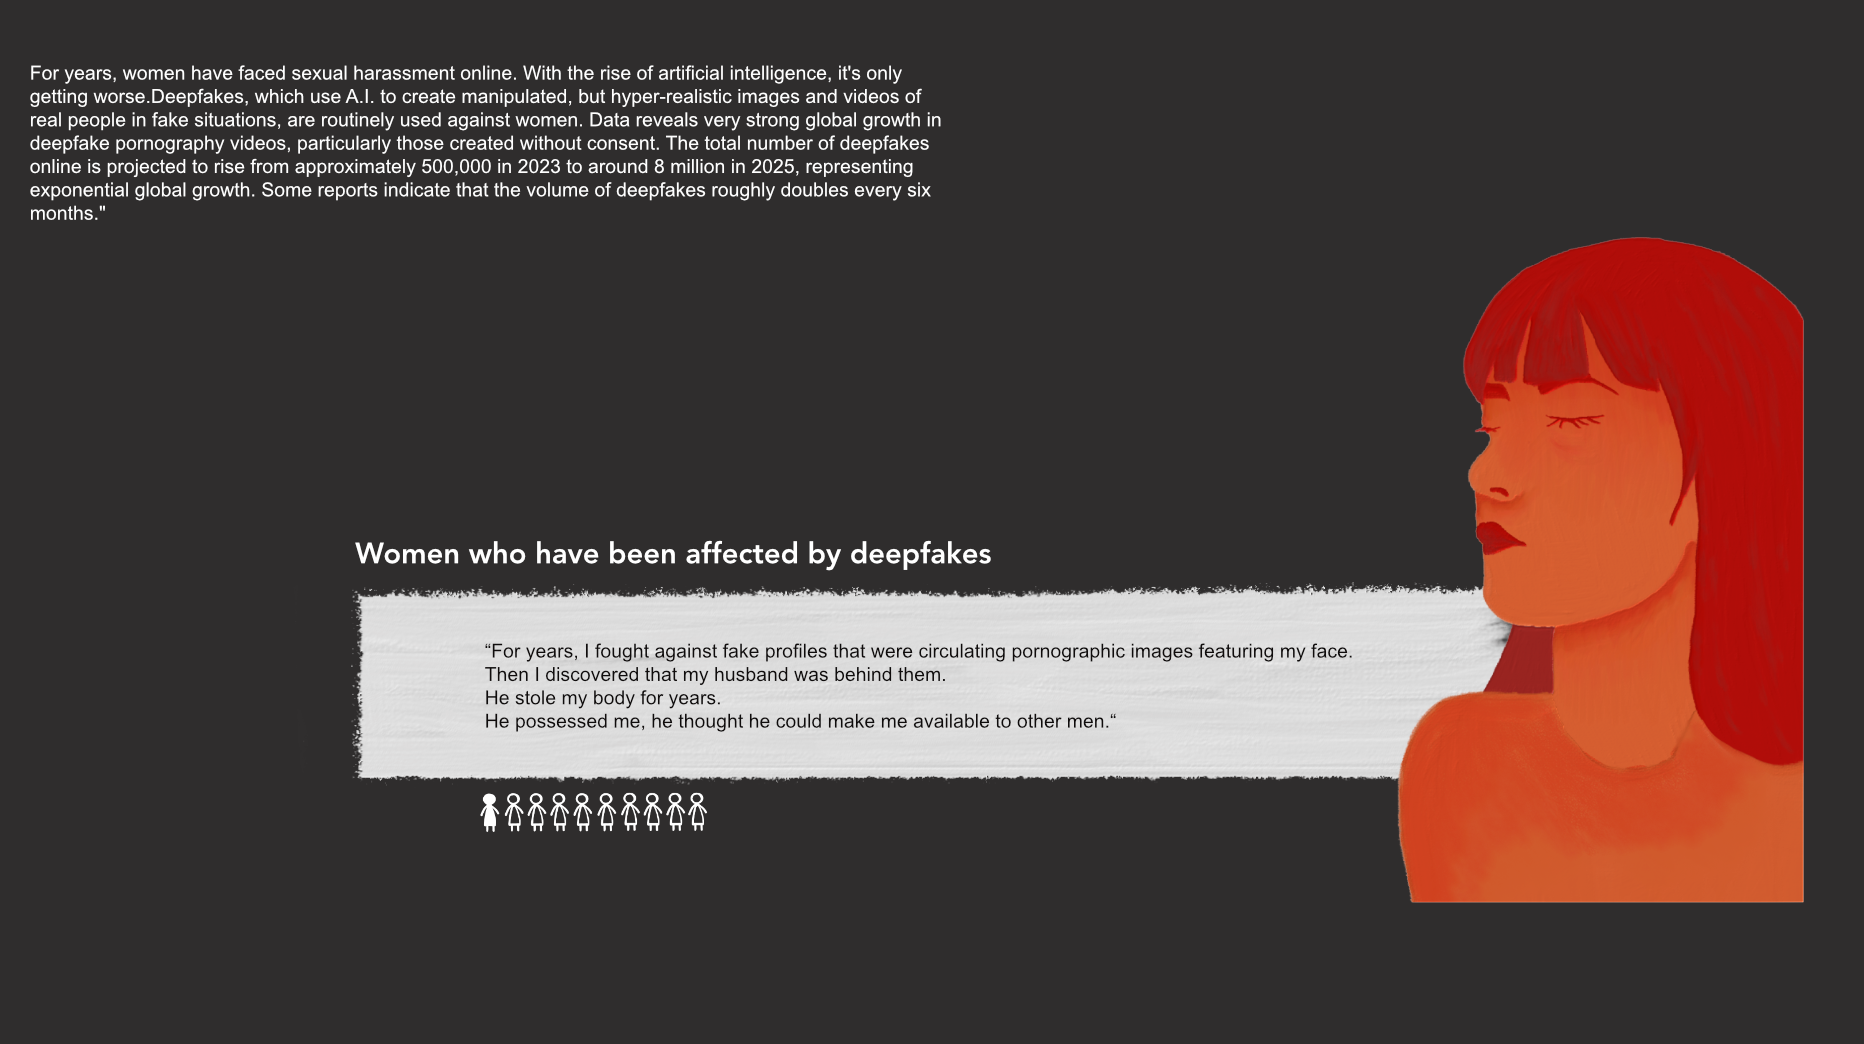
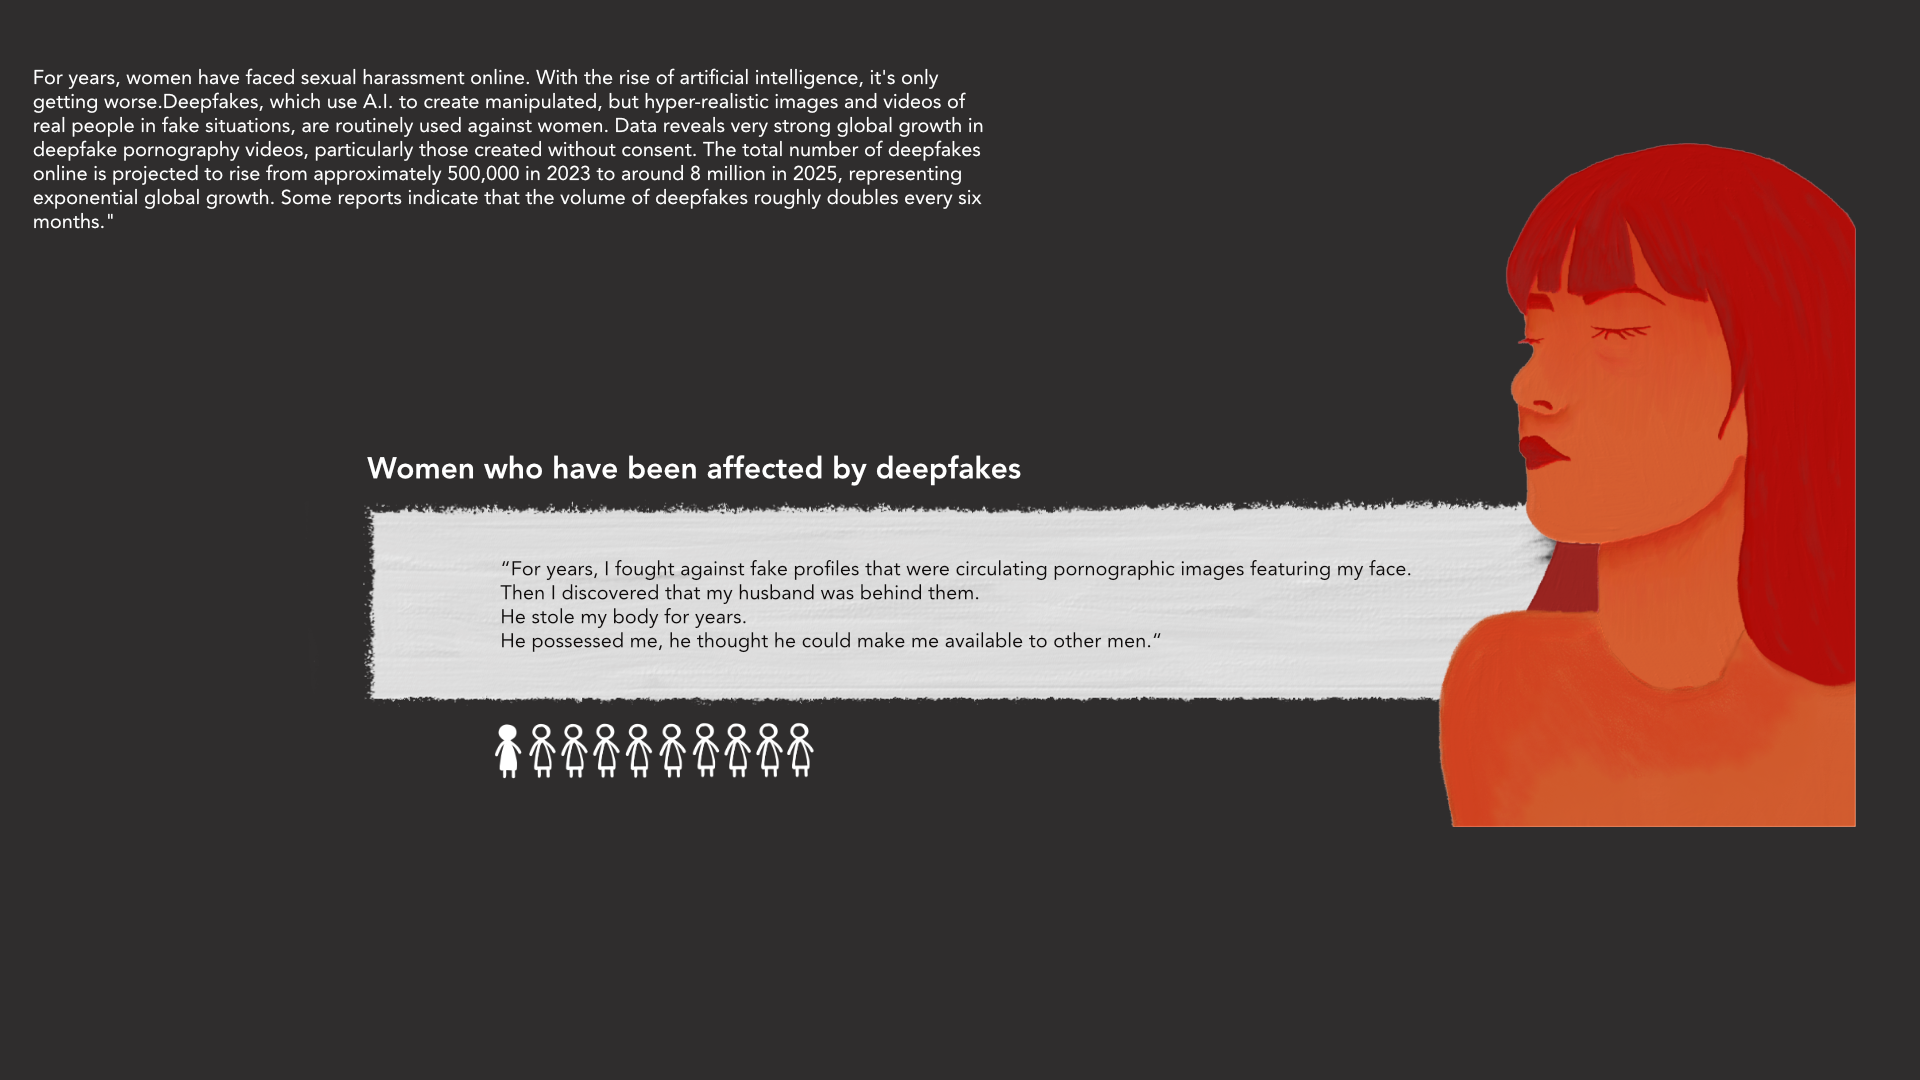
arrr

Changed region(s): [[0.1867, 0.1226, 0.9957, 0.8889], [0.0, 0.0613, 0.529, 0.2146]]

diff --git a/sketch.js b/sketch.js
@@ -171,7 +171,10 @@ function updateCachedValues() {
 
 function draw() {
   background(47, 45, 45);
-
+  push(), 
+  scale(0.93);
+  //image(test, windowWidth/40,0,windowWidth,cachedValues.neueHoehe);
+  pop(); 
   //=================SEITE 1=========================//
   if (!showDiagram1) showDiagram1 = true;
   
@@ -611,10 +614,46 @@ function starteAnimationJetzt() {
 
 function drawpage2(){
 
-image(test2,windowWidth/60,1600,windowWidth, cachedValues.neueHoehe);
+  push();
+  scale(0.93);
+  image(test2, windowWidth/57, 1800, windowWidth, cachedValues.neueHoehe);
+  pop();
+
+  fill(200, 30, 30);
+  textFont(fließtext);
+  textSize(cachedValues.textSizeFließtext); // Korrigiert: gleiche Größe wie oben
+  textLeading(cachedValues.textLeading); // Korrigiert: gleiche Zeilenhöhe wie oben
+  text('For years, women have faced sexual harassment online. With the rise of artificial intelligence its only\ngetting worse.Deepfakes, which use A.I. to create manipulated, but hyper-realistic images and videos of\nreal people in fake situations, are routinely used against women. Data reveals very strong global growth in\ndeepfake pornography videos, particularly those created without consent. The total number of deepfakes\nonline is projected to rise from approximately 500,000 in 2023 to around 8 million in 2025, representing\nexponential global growth. Some reports indicate that the volume of deepfakes roughly doubles every six\nmonths.',
+  windowWidth/31.4, windowWidth/1.44);
+
+  textFont(headline);
+  textSize(windowWidth/69); 
+  textLeading(cachedValues.textLeading); 
+  text('Women who have been affected by deepfakes',
+  windowWidth/5.145, windowWidth/1.129);
 
 
+  ////////////ZITATE//////////////
+
+  //Zitat 1
+
+  fill(200, 30, 30);
+  textFont(fließtext);
+  textSize(cachedValues.textSizeFließtext); // Korrigiert: gleiche Größe wie oben
+  textLeading(cachedValues.textLeading); // Korrigiert: gleiche Zeilenhöhe wie oben
+  text('“I saw that this person who was requesting to follow me, had me as their profile picture.\nSo, of course,  I wanted to see what that was about. I clicked on it and I saw that the entire\naccount was full of AI videos of me in lingerie, doing sexual acts. I ended up skipping classes.\nI was scared that people would recognize me and think that it was me whenever I would go\noutside. I felt like no one was going to belive me  that it wasnt me.  I could not  undestand\nhow something like this, something like completely demages, ruins your reputations can’t be illigal.“',
+  windowWidth/31.4, windowWidth/1.44);
+
+  //Zitat 2
+
+  //Zitat 3
+
+  //Zitat 4
+
+  //Zitat 5
 }
+
+
 
 
 
